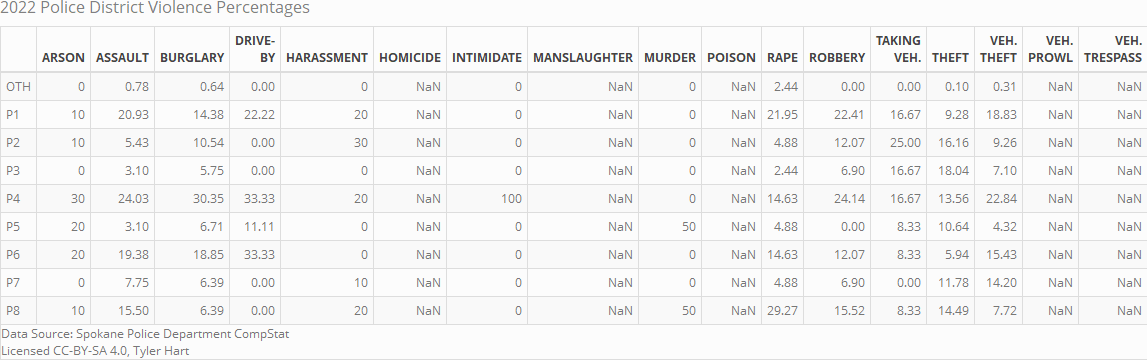
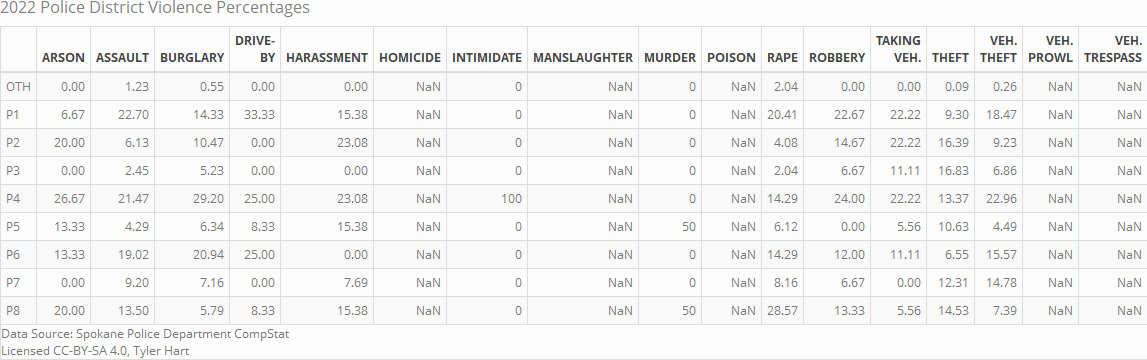
Updated tables

diff --git a/tables/markdown_table.annual_offense_totals.md b/tables/markdown_table.annual_offense_totals.md
@@ -4,4 +4,4 @@
 |2019 |    42|     750|     1858|       19|         70|        0|          4|            0|      5|      0|  217|     290|          52|  9912|       1205|         10|             0|
 |2020 |    99|     687|     1949|       26|         52|        0|          0|            1|     10|      1|  190|     266|          31|  8937|       1072|          0|             0|
 |2021 |   101|     731|     1699|       30|         64|        0|          0|            0|     10|      1|  219|     260|          63|  7865|       1081|          1|             0|
-|2022 |    10|     129|      325|        9|         10|        0|          1|            0|      2|      0|   41|      58|          12|  1792|        326|          0|             0|
+|2022 |    15|     163|      379|       12|         13|        0|          1|            0|      2|      0|   49|      75|          18|  2131|        381|          0|             0|

diff --git a/tables/markdown_table.district_stats.md b/tables/markdown_table.district_stats.md
@@ -1,12 +1,12 @@
 |District | Total| Percentage|
 |:--------|-----:|----------:|
-|P4       | 11345|       17.0|
-|P3       | 10456|       15.6|
-|P1       |  9605|       14.4|
-|P2       |  8775|       13.1|
-|P7       |  6875|       10.3|
-|P6       |  6358|        9.5|
-|P8       |  6080|        9.1|
-|P5       |  5360|        8.0|
-|NA       |  1767|        2.6|
-|OTH      |   207|        0.3|
+|P4       | 11403|       16.9|
+|P3       | 10478|       15.6|
+|P1       |  9656|       14.3|
+|P2       |  8825|       13.1|
+|P7       |  6925|       10.3|
+|P6       |  6411|        9.5|
+|P8       |  6117|        9.1|
+|P5       |  5389|        8.0|
+|NA       |  1940|        2.9|
+|OTH      |   208|        0.3|

diff --git a/tables/markdown_table.district_stats_ytd.md b/tables/markdown_table.district_stats_ytd.md
@@ -1,12 +1,12 @@
 |District | Total| Percentage|
 |:--------|-----:|----------:|
-|NA       |   847|       31.2|
-|P4       |   361|       13.3|
-|P1       |   251|        9.2|
-|P2       |   241|        8.9|
-|P8       |   230|        8.5|
-|P3       |   225|        8.3|
-|P6       |   210|        7.7|
-|P7       |   196|        7.2|
-|P5       |   148|        5.5|
-|OTH      |     6|        0.2|
+|NA       |  1020|       31.5|
+|P4       |   419|       12.9|
+|P1       |   302|        9.3|
+|P2       |   291|        9.0|
+|P8       |   267|        8.2|
+|P6       |   263|        8.1|
+|P3       |   247|        7.6|
+|P7       |   246|        7.6|
+|P5       |   177|        5.5|
+|OTH      |     7|        0.2|

diff --git a/tables/markdown_table_monthly.arson.md b/tables/markdown_table_monthly.arson.md
@@ -2,7 +2,7 @@
 |:-----|----:|----:|----:|----:|----:|----:|
 |01    |   NA|    3|    4|    3|    6|    5|
 |02    |   NA|    2|   NA|    6|    5|    4|
-|03    |   NA|    4|    4|    3|    3|    1|
+|03    |   NA|    4|    4|    3|    3|    6|
 |04    |   NA|    1|    3|    7|   14|   NA|
 |05    |   NA|    7|    5|    9|    7|   NA|
 |06    |   NA|    1|    5|   12|   10|   NA|

diff --git a/tables/markdown_table_monthly.assault.md b/tables/markdown_table_monthly.assault.md
@@ -2,7 +2,7 @@
 |:-----|----:|----:|----:|----:|----:|----:|
 |01    |   NA|   60|   67|   63|   44|   52|
 |02    |   NA|   69|   43|   48|   53|   55|
-|03    |   NA|   70|   53|   40|   75|   22|
+|03    |   NA|   70|   53|   40|   75|   56|
 |04    |   NA|   71|   71|   55|   53|   NA|
 |05    |   NA|  100|   74|   71|   68|   NA|
 |06    |   NA|   83|   67|   63|   62|   NA|

diff --git a/tables/markdown_table_monthly.burglary.md b/tables/markdown_table_monthly.burglary.md
@@ -2,7 +2,7 @@
 |:-----|----:|----:|----:|----:|----:|----:|
 |01    |   NA|  175|  167|  155|  146|  156|
 |02    |   NA|  118|  117|  141|  118|  128|
-|03    |   NA|  128|  135|  175|  143|   41|
+|03    |   NA|  128|  135|  175|  143|   95|
 |04    |   NA|  173|  171|  160|  117|   NA|
 |05    |   NA|  177|  185|  157|  134|   NA|
 |06    |   NA|  171|  170|  166|  146|   NA|

diff --git a/tables/markdown_table_monthly.drive-by.md b/tables/markdown_table_monthly.drive-by.md
@@ -2,7 +2,7 @@
 |:-----|----:|----:|----:|----:|----:|----:|
 |01    |   NA|    4|    3|    2|    4|    2|
 |02    |   NA|    1|    4|   NA|    5|    7|
-|03    |   NA|    1|   NA|    1|   NA|   NA|
+|03    |   NA|    1|   NA|    1|   NA|    3|
 |04    |   NA|    1|    1|    4|    2|   NA|
 |05    |   NA|   NA|   NA|    5|   NA|   NA|
 |06    |   NA|    1|   NA|   NA|    2|   NA|

diff --git a/tables/markdown_table_monthly.rape.md b/tables/markdown_table_monthly.rape.md
@@ -2,7 +2,7 @@
 |:-----|----:|----:|----:|----:|----:|----:|
 |01    |   NA|   17|   27|   14|   16|   17|
 |02    |   NA|   19|   18|   11|   19|   14|
-|03    |   NA|   24|   20|   11|   31|   10|
+|03    |   NA|   24|   20|   11|   31|   18|
 |04    |   NA|   25|   18|   14|   24|   NA|
 |05    |   NA|   28|   20|   18|   15|   NA|
 |06    |   NA|   41|   21|   22|   23|   NA|

diff --git a/tables/markdown_table_monthly.robbery.md b/tables/markdown_table_monthly.robbery.md
@@ -2,7 +2,7 @@
 |:-----|----:|----:|----:|----:|----:|----:|
 |01    |   NA|   26|   28|   23|   13|   25|
 |02    |   NA|   24|   17|   22|   24|   20|
-|03    |   NA|   19|   21|   28|   17|   13|
+|03    |   NA|   19|   21|   28|   17|   30|
 |04    |   NA|   15|   19|   24|   26|   NA|
 |05    |   NA|   15|   22|   17|   19|   NA|
 |06    |   NA|   21|   24|   21|   28|   NA|

diff --git a/tables/markdown_table_monthly.taking veh..md b/tables/markdown_table_monthly.taking veh..md
@@ -2,7 +2,7 @@
 |:-----|----:|----:|----:|----:|----:|----:|
 |01    |   NA|    3|    8|    3|    3|    4|
 |02    |   NA|    6|    5|    4|    8|    5|
-|03    |   NA|    6|    5|    3|    4|    3|
+|03    |   NA|    6|    5|    3|    4|    9|
 |04    |   NA|    7|    4|    3|    6|   NA|
 |05    |   NA|    5|    2|    1|    4|   NA|
 |06    |   NA|    6|    8|    1|    4|   NA|

diff --git a/tables/markdown_table_monthly.theft.md b/tables/markdown_table_monthly.theft.md
@@ -2,7 +2,7 @@
 |:-----|----:|----:|----:|----:|----:|----:|
 |01    |   NA| 1007|  817|  769|  761|  693|
 |02    |   NA|  783|  616|  755|  528|  793|
-|03    |   NA|  902|  736|  662|  618|  306|
+|03    |   NA|  902|  736|  662|  618|  645|
 |04    |   NA|  901|  919|  675|  601|   NA|
 |05    |   NA| 1006|  993|  693|  642|   NA|
 |06    |   NA| 1042|  898|  721|  684|   NA|

diff --git a/tables/markdown_table_monthly.veh. theft.md b/tables/markdown_table_monthly.veh. theft.md
@@ -2,7 +2,7 @@
 |:-----|----:|----:|----:|----:|----:|----:|
 |01    |   NA|  165|   91|  127|   81|  129|
 |02    |   NA|  133|   93|  107|   66|  148|
-|03    |   NA|  120|  100|   81|   56|   49|
+|03    |   NA|  120|  100|   81|   56|  104|
 |04    |   NA|   96|   91|   97|   72|   NA|
 |05    |   NA|  140|  115|   70|   97|   NA|
 |06    |   NA|  140|  116|   93|   45|   NA|
